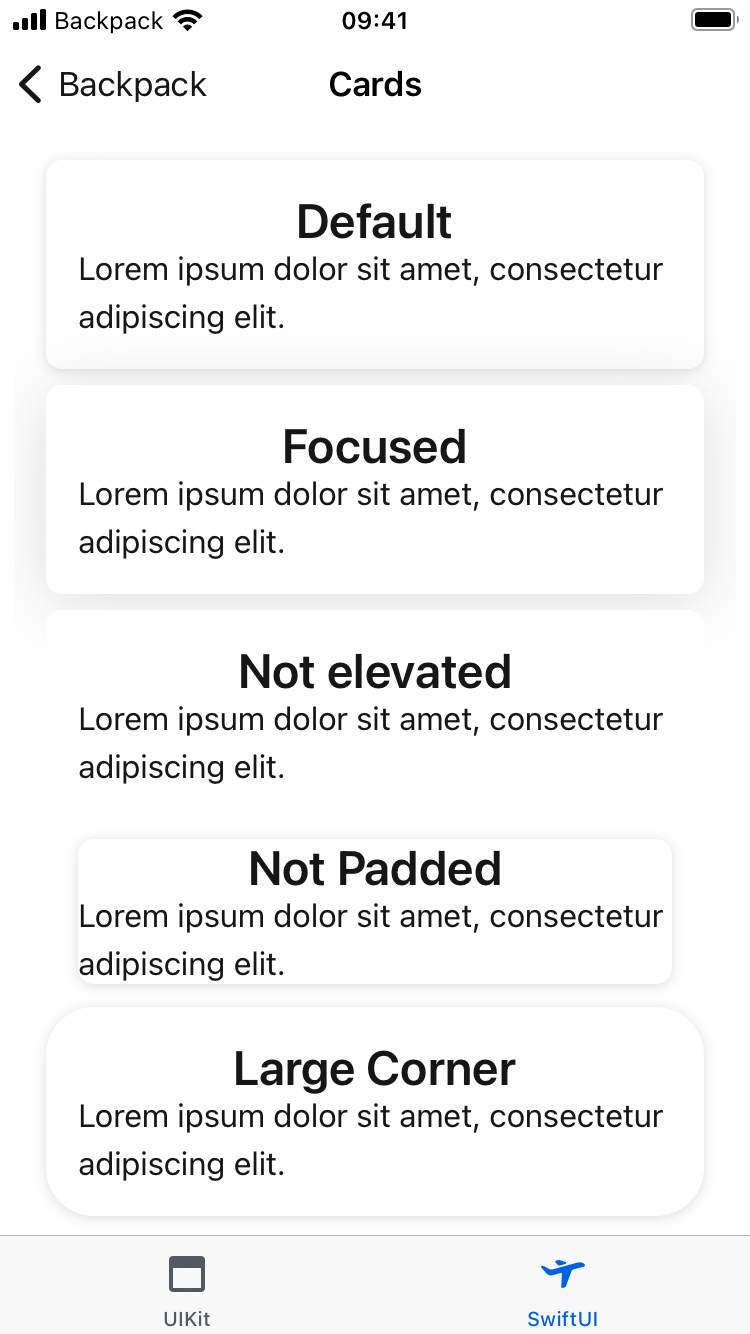
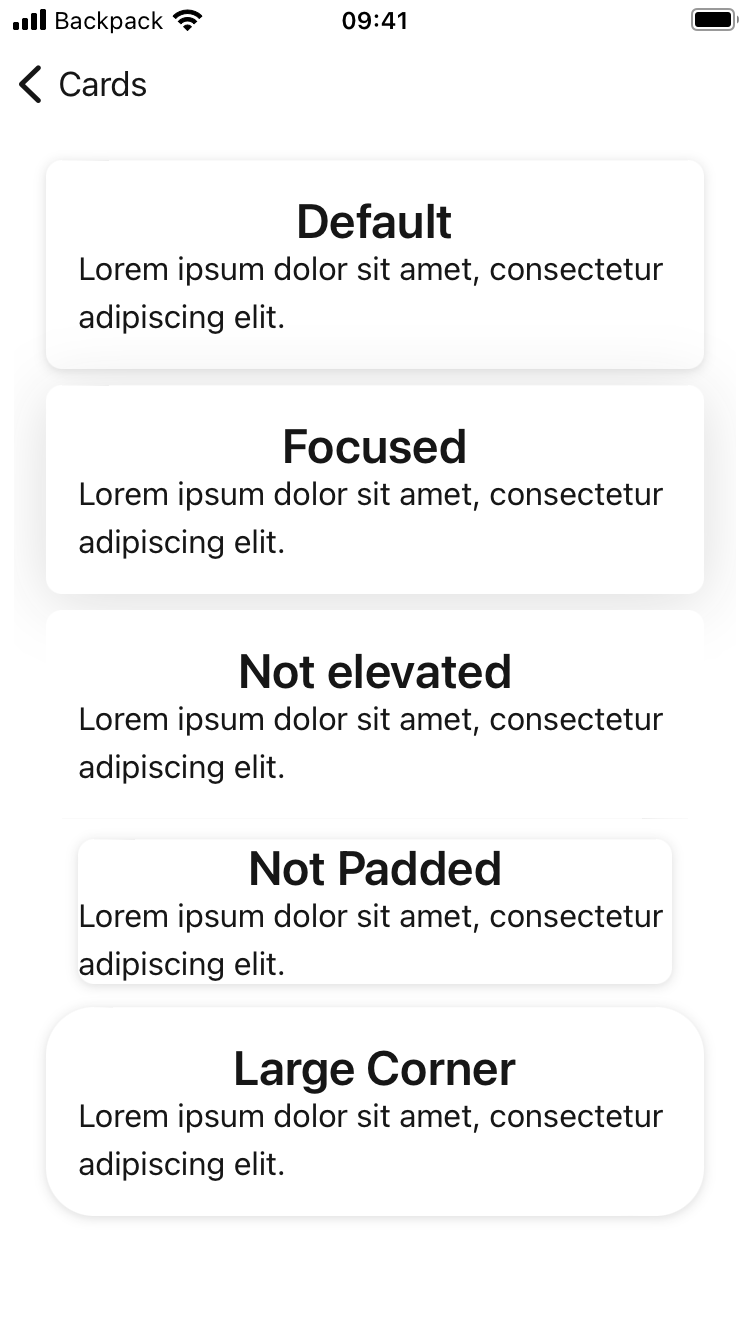
Add BPKDividedCard to SwiftUI (#1476)
* Add BPKDividedCard to SwiftUI

* Update README.md

* Update README.md

* Add No padding by default

* Update snapshots

* Fix CI

* Fix test output

* Remove xcpretty

* undo changes

* Use BPKText for the examples instead of Text and update snapshots.

* Remove unused codes

diff --git a/Backpack-SwiftUI/Card/Classes/BPKDividedCard.swift b/Backpack-SwiftUI/Card/Classes/BPKDividedCard.swift
@@ -1,0 +1,81 @@
+/*
+ * Backpack - Skyscanner's Design System
+ *
+ * Copyright © 2022 Skyscanner Ltd. All rights reserved.
+ *
+ * Licensed under the Apache License, Version 2.0 (the "License");
+ * you may not use this file except in compliance with the License.
+ * You may obtain a copy of the License at
+ *
+ *   http://www.apache.org/licenses/LICENSE-2.0
+ *
+ * Unless required by applicable law or agreed to in writing, software
+ * distributed under the License is distributed on an "AS IS" BASIS,
+ * WITHOUT WARRANTIES OR CONDITIONS OF ANY KIND, either express or implied.
+ * See the License for the specific language governing permissions and
+ * limitations under the License.
+ */
+
+import SwiftUI
+
+public struct BPKDividedCard<PrimaryContent: View, SecondaryContent: View>: View {
+    private let primaryContent: PrimaryContent
+    private let secondaryContent: SecondaryContent
+    private var tapAction: () -> Void = {}
+
+    public init(
+        @ViewBuilder primaryContent: () -> PrimaryContent,
+        @ViewBuilder secondaryContent: () -> SecondaryContent
+    ) {
+        self.primaryContent = primaryContent()
+        self.secondaryContent = secondaryContent()
+    }
+
+    public var body: some View {
+        BPKCard(padding: .none) {
+            VStack(spacing: 0) {
+                primaryContent
+                Color(BPKColor.lineColor)
+                    .frame(height: 1)
+                secondaryContent
+            }
+            .onTapGesture {
+                tapAction()
+            }
+        }
+    }
+    
+    public func onTapGesture(perform: @escaping () -> Void) -> BPKDividedCard {
+        var result = self
+        result.tapAction = perform
+        return result
+    }
+}
+
+struct BPKDividedCard_Priviews: PreviewProvider {
+    static var previews: some View {
+        VStack(spacing: 20) {
+            BPKDividedCard {
+                let message = "Lorem ipsum dolor sit amet, consectetuer adipiscing elit. " +
+                "Aenean commodo ligula eget dolor. Aenean massa."
+                BPKText(message)
+                    .lineLimit(3)
+            } secondaryContent: {
+                BPKText("Lorem ipsum dolor sit amet")
+            }
+            
+            BPKDividedCard {
+                let message = "Lorem ipsum dolor sit amet, consectetuer adipiscing elit. " +
+                "Aenean commodo ligula eget dolor. Aenean massa."
+                BPKText(message)
+                    .lineLimit(3)
+                    .padding()
+            } secondaryContent: {
+                BPKText("Lorem ipsum dolor sit amet")
+                    .padding()
+            }
+        }
+        .padding()
+    }
+}
+

diff --git a/Backpack-SwiftUI/Tests/Card/BPKDividedCardTests.swift b/Backpack-SwiftUI/Tests/Card/BPKDividedCardTests.swift
@@ -1,0 +1,61 @@
+/*
+ * Backpack - Skyscanner's Design System
+ *
+ * Copyright © 2022 Skyscanner Ltd. All rights reserved.
+ *
+ * Licensed under the Apache License, Version 2.0 (the "License");
+ * you may not use this file except in compliance with the License.
+ * You may obtain a copy of the License at
+ *
+ *   http://www.apache.org/licenses/LICENSE-2.0
+ *
+ * Unless required by applicable law or agreed to in writing, software
+ * distributed under the License is distributed on an "AS IS" BASIS,
+ * WITHOUT WARRANTIES OR CONDITIONS OF ANY KIND, either express or implied.
+ * See the License for the specific language governing permissions and
+ * limitations under the License.
+ */
+
+import XCTest
+import SwiftUI
+@testable import Backpack_SwiftUI
+
+class BPKDividedCardTests: XCTestCase {
+
+    func testDividedCardDefault() {
+        assertSnapshot(
+            BPKDividedCard
+            {
+                BPKText("""
+                    Lorem ipsum dolor sit amet,
+                    consectetuer adipiscing elit.
+                    Aenean commodo ligula eget dolor.
+                """)
+                .lineLimit(3)
+            } secondaryContent: {
+                BPKText("Lorem ipsum dolor sit amet")
+            }
+                .padding()
+        )
+    }
+    
+    func testDividedCardWithPaddedContent() {
+        assertSnapshot(
+            BPKDividedCard
+            {
+                BPKText("""
+                    Lorem ipsum dolor sit amet,
+                    consectetuer adipiscing elit.
+                    Aenean commodo ligula eget dolor.
+                """)
+                .lineLimit(3)
+                .padding()
+            } secondaryContent: {
+                BPKText("Lorem ipsum dolor sit amet")
+                    .padding()
+            }
+                .padding()
+        )
+    }
+}
+

diff --git a/Example/Backpack/SwiftUI/Components/Card/DividedCardExampleView.swift b/Example/Backpack/SwiftUI/Components/Card/DividedCardExampleView.swift
@@ -1,0 +1,55 @@
+//
+/*
+ * Backpack - Skyscanner's Design System
+ *
+ * Copyright © 2022 Skyscanner Ltd. All rights reserved.
+ *
+ * Licensed under the Apache License, Version 2.0 (the "License");
+ * you may not use this file except in compliance with the License.
+ * You may obtain a copy of the License at
+ *
+ *   http://www.apache.org/licenses/LICENSE-2.0
+ *
+ * Unless required by applicable law or agreed to in writing, software
+ * distributed under the License is distributed on an "AS IS" BASIS,
+ * WITHOUT WARRANTIES OR CONDITIONS OF ANY KIND, either express or implied.
+ * See the License for the specific language governing permissions and
+ * limitations under the License.
+ */
+
+import SwiftUI
+import Backpack_SwiftUI
+
+struct DividedCardExampleView: View {
+    
+    var body: some View {
+        VStack(spacing: 20) {
+            BPKDividedCard {
+                let message = "Lorem ipsum dolor sit amet, consectetuer adipiscing elit. " +
+                "Aenean commodo ligula eget dolor. Aenean massa."
+                BPKText(message)
+                    .lineLimit(3)
+            } secondaryContent: {
+                BPKText("Lorem ipsum dolor sit amet")
+            }
+            
+            BPKDividedCard {
+                let message = "Lorem ipsum dolor sit amet, consectetuer adipiscing elit. " +
+                "Aenean commodo ligula eget dolor. Aenean massa."
+                BPKText(message)
+                    .lineLimit(3)
+                    .padding()
+            } secondaryContent: {
+                BPKText("Lorem ipsum dolor sit amet")
+                    .padding()
+            }
+        }
+        .padding()
+    }
+}
+
+struct DividedCardExampleView_Previews: PreviewProvider {
+    static var previews: some View {
+        DividedCardExampleView()
+    }
+}

diff --git a/Example/Backpack/Utils/FeatureStories/Groups/CardGroups.swift b/Example/Backpack/Utils/FeatureStories/Groups/CardGroups.swift
@@ -15,6 +15,7 @@
  * See the License for the specific language governing permissions and
  * limitations under the License.
  */
+import SwiftUI
 import Backpack
 
 struct CardGroupsProvider {
@@ -37,6 +38,17 @@ struct CardGroupsProvider {
             title: title,
             storyboard: .named("Cards", on: "DividedCardsViewController"),
             enrich: enrich,
+            showPresentable: showPresentable
+        )
+    }
+    
+    private func presentableCard<Content: View>(
+        _ title: String,
+        view: Content
+    ) -> CellDataSource {
+        PresentableCellDataSource.custom(
+            title: title,
+            customController: { ContentUIHostingController(view) },
             showPresentable: showPresentable
         )
     }
@@ -72,6 +84,15 @@ struct CardGroupsProvider {
                     cardVC.padded = false
                     cardVC.dividerStyle = .solid
                 }
+            ]
+        ).groups()
+    }
+    
+    func swiftUIGroups() -> [Components.Group] {
+        SingleGroupProvider(
+            cellDataSources: [
+                presentableCard("Card", view: CardExampleView()),
+                presentableCard("DividedCard", view: DividedCardExampleView())
             ]
         ).groups()
     }

diff --git a/Example/Backpack Screenshot/SwiftUIScreenshots.swift b/Example/Backpack Screenshot/SwiftUIScreenshots.swift
@@ -98,7 +98,12 @@ class SwiftUIScreenshots: BackpackSnapshotTestCase {
 
         navigate(title: "Cards") {
             switchTab(title: "SwiftUI")
+            app.tables.staticTexts["Card"].tap()
             saveScreenshot(component: "card", scenario: "default", userInterfaceStyle: userInterfaceStyle)
+            tapBackButton()
+            app.tables.staticTexts["DividedCard"].tap()
+            saveScreenshot(component: "divided-card", scenario: "default", userInterfaceStyle: userInterfaceStyle)
+            tapBackButton()
         }
         
         navigate(title: "Badges") {

diff --git a/Example/Backpack/Utils/FeatureStories/ComponentCells.swift b/Example/Backpack/Utils/FeatureStories/ComponentCells.swift
@@ -122,9 +122,7 @@ extension ComponentCellsProvider {
             title: "Cards",
             tabs: [
                 .uikit(groups: CardGroupsProvider(showPresentable: show(presentable:)).groups()),
-                .swiftui(presentable: CustomPresentable(generateViewController: {
-                    ContentUIHostingController(CardExampleView())
-                }))
+                .swiftui(groups: CardGroupsProvider(showPresentable: show(presentable:)).swiftUIGroups())
             ],
             showChildren: { showComponent(title: "Cards", tabs: $0) }
         )

diff --git a/Backpack-SwiftUI/Card/README.md b/Backpack-SwiftUI/Card/README.md
@@ -12,7 +12,9 @@
 
 ## Usage
 
-### Basic card
+### `BPKCard`
+
+**Basic card**
 
 ```swift
 import Backpack_SwiftUI
@@ -21,7 +23,7 @@ BPKCard {
 }
 ```
 
-### Set padding
+**Set padding**
 Set the padding to:
 * `.small`
 * `.none`
@@ -32,7 +34,7 @@ BPKCard(padding: .none) {
 }
 ```
 
-### Set elevation
+**Set elevation**
 Set the elevation to:
 * `.default`
 * `.focus`
@@ -44,7 +46,7 @@ BPKCard(elevation: .focus) {
 }
 ```
 
-### Set corner radius
+**Set corner radius**
 Set the corner radius to:
 * `.small`
 * `.large`
@@ -56,10 +58,23 @@ BPKCard(cornerStyle: .large) {
 }
 ```
 
-### Set tap gesture
+**Set tap gesture**
 ```swift
 BPKCard {
     BPKText("You can tap me!")
+}.onTapGesture {
+    print("Card tapped!")
+}
+```
+
+### `BPKDividedCard`
+
+**Default**
+```swift
+BPKDividedCard {
+    BPKText("PrimaryContent")
+} secondaryContent: {
+    BPKText("SecondaryContent")
 }.onTapGesture {
     print("Card tapped!")
 }
